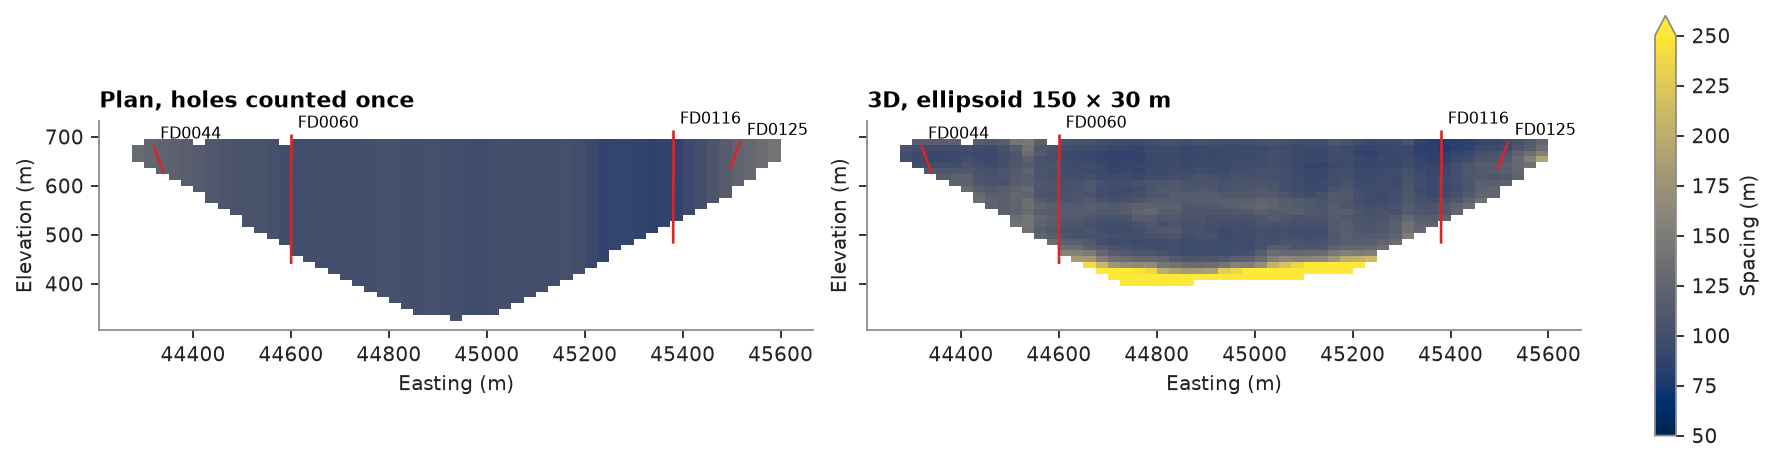
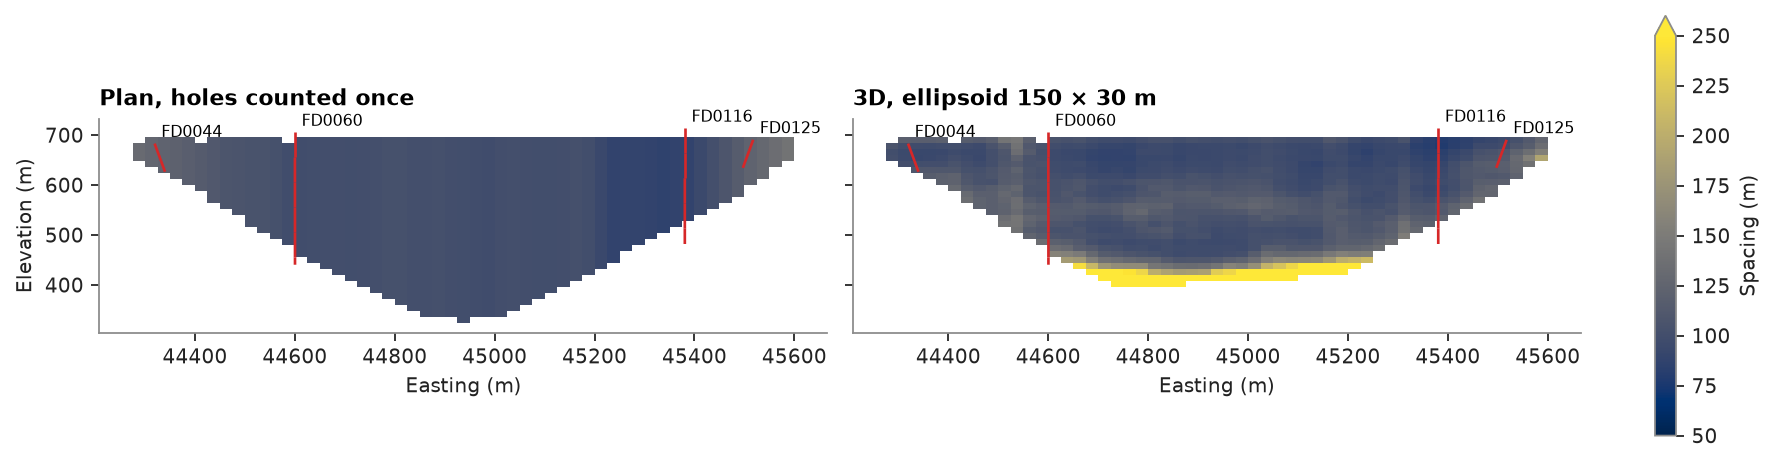
fix(eda): data_spacing docs and example prose; section NaN regression test

diff --git a/examples/03-exploratory-analysis/10-data-spacing/example_03_10.py b/examples/03-exploratory-analysis/10-data-spacing/example_03_10.py
@@ -2,9 +2,9 @@
 # data spacing
 
 the equivalent data spacing (cabral pinto and deutsch, 2017) is the spacing of a square grid of holes that would put
-as much data around a location as the real drilling does. it reads in meters whatever the layout: a cell on a 700 m
-grid scores about 700 m, and so does a cell with one cluster of holes on one side and none on the other. it is the
-usual basis for resource classification ([classification](../../10-checking-models/05-classification/README.md)).
+as much data around a location as the real drilling does. it reads in meters whatever the layout: a cell inside a
+square grid of 700 m scores about 700 m, and a cell among irregular holes scores the square grid they are worth. it is
+the usual basis for resource classification ([classification](../../10-checking-models/05-classification/README.md)).
 """
 
 # %% [hidden]
@@ -51,7 +51,7 @@ b.set(title="Cells of the lease", xlabel="Spacing (m)")
 save(fig, "plan")
 
 # %% [markdown]
-# the infill clusters read 200 to 400 m and the regional mesh 550 to 700 m, close to its nominal 700 m. the measure
+# the infill clusters read 200 to 400 m and the regional mesh 550 to 700 m. the measure
 # averages over the 4 to 11 nearest holes, so it changes smoothly across the edge of the infill rather than jumping
 # at it.
 #
@@ -61,8 +61,8 @@ save(fig, "plan")
 # inside its ellipsoid: `sqrt(V / (c n))`, with `V` the volume of the ellipsoid, `n` the samples inside it around the
 # block and `c` their length. `n c` is the length of hole inside `V`, so `V / (n c)` is the plan area per hole for
 # vertical holes. a `Drillholes` stands for its interval midpoints, and `c` defaults to the median interval length;
-# for composites in a `PointSet`, pass `composite_length=`. the ellipsoid here is 150 m across the layer's plane and
-# 30 m thick, so it follows the flat formation.
+# for composites in a `PointSet`, pass `composite_length=`. the ellipsoid here reaches 150 m in plan and 30 m
+# vertically, so it follows the flat formation.
 
 # %%
 plateau = bt.datasets.iron_formation_plateau()
@@ -95,6 +95,6 @@ for ax, values, title in (
         formation, values, axis="y", index=40, colorbar=False, vmin=50, vmax=250, ax=ax, holes=drillholes
     )
     ax.set(title=title, xlabel="Easting (m)")
-axes[0].set_ylabel("Elevation (m)")
+axes[1].set_ylabel("")
 fig.colorbar(axes[1].collections[0], ax=axes, shrink=0.9, extend="max", label="Spacing (m)")
 save(fig, "section")

diff --git a/python/tests/test_plot.py b/python/tests/test_plot.py
@@ -605,3 +605,15 @@ def test_section_through_a_plane_cuts_its_blocks_and_keeps_holes_within_width():
     assert [t.get_label() for t in traces] == ["A"] and [t.get_text() for t in ax.texts] == ["A"]
     np.testing.assert_allclose(traces[0].get_segments()[0][:, 0], 15)
     assert ax.get_xlabel() == "Easting (m)" and ax.get_ylabel() == "Elevation (m)"
+
+
+def test_section_keeps_each_block_at_its_place_when_values_hold_nan():
+    bm = bt.BlockModel(origin=(0, 0, 0), size=(10, 10, 10), count=(3, 2, 1))
+    g = np.arange(6.0)
+    g[1] = np.nan
+    _, ax = bt.plot.section(bm, g, axis="z")
+    blocks = ax.collections[0]
+    centers = np.array([p.vertices[:4].mean(axis=0) for p in blocks.get_paths()])
+    index = (centers[:, 0] // 10) + 3 * (centers[:, 1] // 10)
+    np.testing.assert_array_equal(blocks.get_array(), index)
+    assert len(index) == 5

diff --git a/examples/10-checking-models/05-classification/example_10_05.py b/examples/10-checking-models/05-classification/example_10_05.py
@@ -81,7 +81,8 @@ print(f"{np.mean(smoothed != by_kriging):.1%} of blocks change class in smoothin
 # %% [markdown]
 # spacing alone puts the infill, 22 % of the blocks, in measured, and the lease edge beyond the last holes in
 # inferred. the kriging diagnostics also see how the holes surround a block: measured grows to 27 % and joins the
-# infill patches, while blocks along the edge, with holes on one side only, stay inferred (8.1 % of the lease). the filter changes 1.7 % of the blocks, most of them single blocks and thin fringes.
+# infill patches, while blocks along the edge, with holes on one side only, stay inferred (8.1 % of the lease). the
+# filter changes 1.7 % of the blocks, most of them single blocks and thin fringes.
 
 # %%
 resource_classes = bt.Categories(names, colors=[ACCENT, "#9ebad6", LIGHT])

diff --git a/crates/py/src/eda.rs b/crates/py/src/eda.rs
@@ -1773,7 +1773,7 @@ fn pairs(
 ///     Hole of each sample, or its column in `data`; the plan form then
 ///     counts each hole once, at its nearest sample.
 /// n : int or sequence of int
-///     Neighbor ranks of the plan form, averaged.
+///     Neighbor ranks of the plan form, averaged; default 4 to 10.
 /// hull : bool
 ///     Null targets outside the plan convex hull of `data`.
 ///

diff --git a/examples/03-exploratory-analysis/10-data-spacing/README.md b/examples/03-exploratory-analysis/10-data-spacing/README.md
@@ -1,9 +1,9 @@
 # data spacing
 
 the equivalent data spacing (cabral pinto and deutsch, 2017) is the spacing of a square grid of holes that would put
-as much data around a location as the real drilling does. it reads in meters whatever the layout: a cell on a 700 m
-grid scores about 700 m, and so does a cell with one cluster of holes on one side and none on the other. it is the
-usual basis for resource classification ([classification](../../10-checking-models/05-classification/README.md)).
+as much data around a location as the real drilling does. it reads in meters whatever the layout: a cell inside a
+square grid of 700 m scores about 700 m, and a cell among irregular holes scores the square grid they are worth. it is
+the usual basis for resource classification ([classification](../../10-checking-models/05-classification/README.md)).
 
 <details><summary>Python</summary>
 
@@ -61,7 +61,7 @@ spacing in the lease: median 535 m, P10 391 m, P90 655 m
 
 ![plan](plan.png)
 
-the infill clusters read 200 to 400 m and the regional mesh 550 to 700 m, close to its nominal 700 m. the measure
+the infill clusters read 200 to 400 m and the regional mesh 550 to 700 m. the measure
 averages over the 4 to 11 nearest holes, so it changes smoothly across the edge of the infill rather than jumping
 at it.
 
@@ -71,8 +71,8 @@ an iron formation cut by 187 diamond holes, about 100 m apart. with a `search`, 
 inside its ellipsoid: `sqrt(V / (c n))`, with `V` the volume of the ellipsoid, `n` the samples inside it around the
 block and `c` their length. `n c` is the length of hole inside `V`, so `V / (n c)` is the plan area per hole for
 vertical holes. a `Drillholes` stands for its interval midpoints, and `c` defaults to the median interval length;
-for composites in a `PointSet`, pass `composite_length=`. the ellipsoid here is 150 m across the layer's plane and
-30 m thick, so it follows the flat formation.
+for composites in a `PointSet`, pass `composite_length=`. the ellipsoid here reaches 150 m in plan and 30 m
+vertically, so it follows the flat formation.
 
 <details><summary>Python</summary>
 
@@ -116,7 +116,7 @@ for ax, values, title in (
         formation, values, axis="y", index=40, colorbar=False, vmin=50, vmax=250, ax=ax, holes=drillholes
     )
     ax.set(title=title, xlabel="Easting (m)")
-axes[0].set_ylabel("Elevation (m)")
+axes[1].set_ylabel("")
 fig.colorbar(axes[1].collections[0], ax=axes, shrink=0.9, extend="max", label="Spacing (m)")
 save(fig, "section")
 ```

diff --git a/examples/10-checking-models/05-classification/README.md b/examples/10-checking-models/05-classification/README.md
@@ -101,7 +101,8 @@ indicated    68.5%    64.5%    65.0%
 
 spacing alone puts the infill, 22 % of the blocks, in measured, and the lease edge beyond the last holes in
 inferred. the kriging diagnostics also see how the holes surround a block: measured grows to 27 % and joins the
-infill patches, while blocks along the edge, with holes on one side only, stay inferred (8.1 % of the lease). the filter changes 1.7 % of the blocks, most of them single blocks and thin fringes.
+infill patches, while blocks along the edge, with holes on one side only, stay inferred (8.1 % of the lease). the
+filter changes 1.7 % of the blocks, most of them single blocks and thin fringes.
 
 <details><summary>Python</summary>
 
